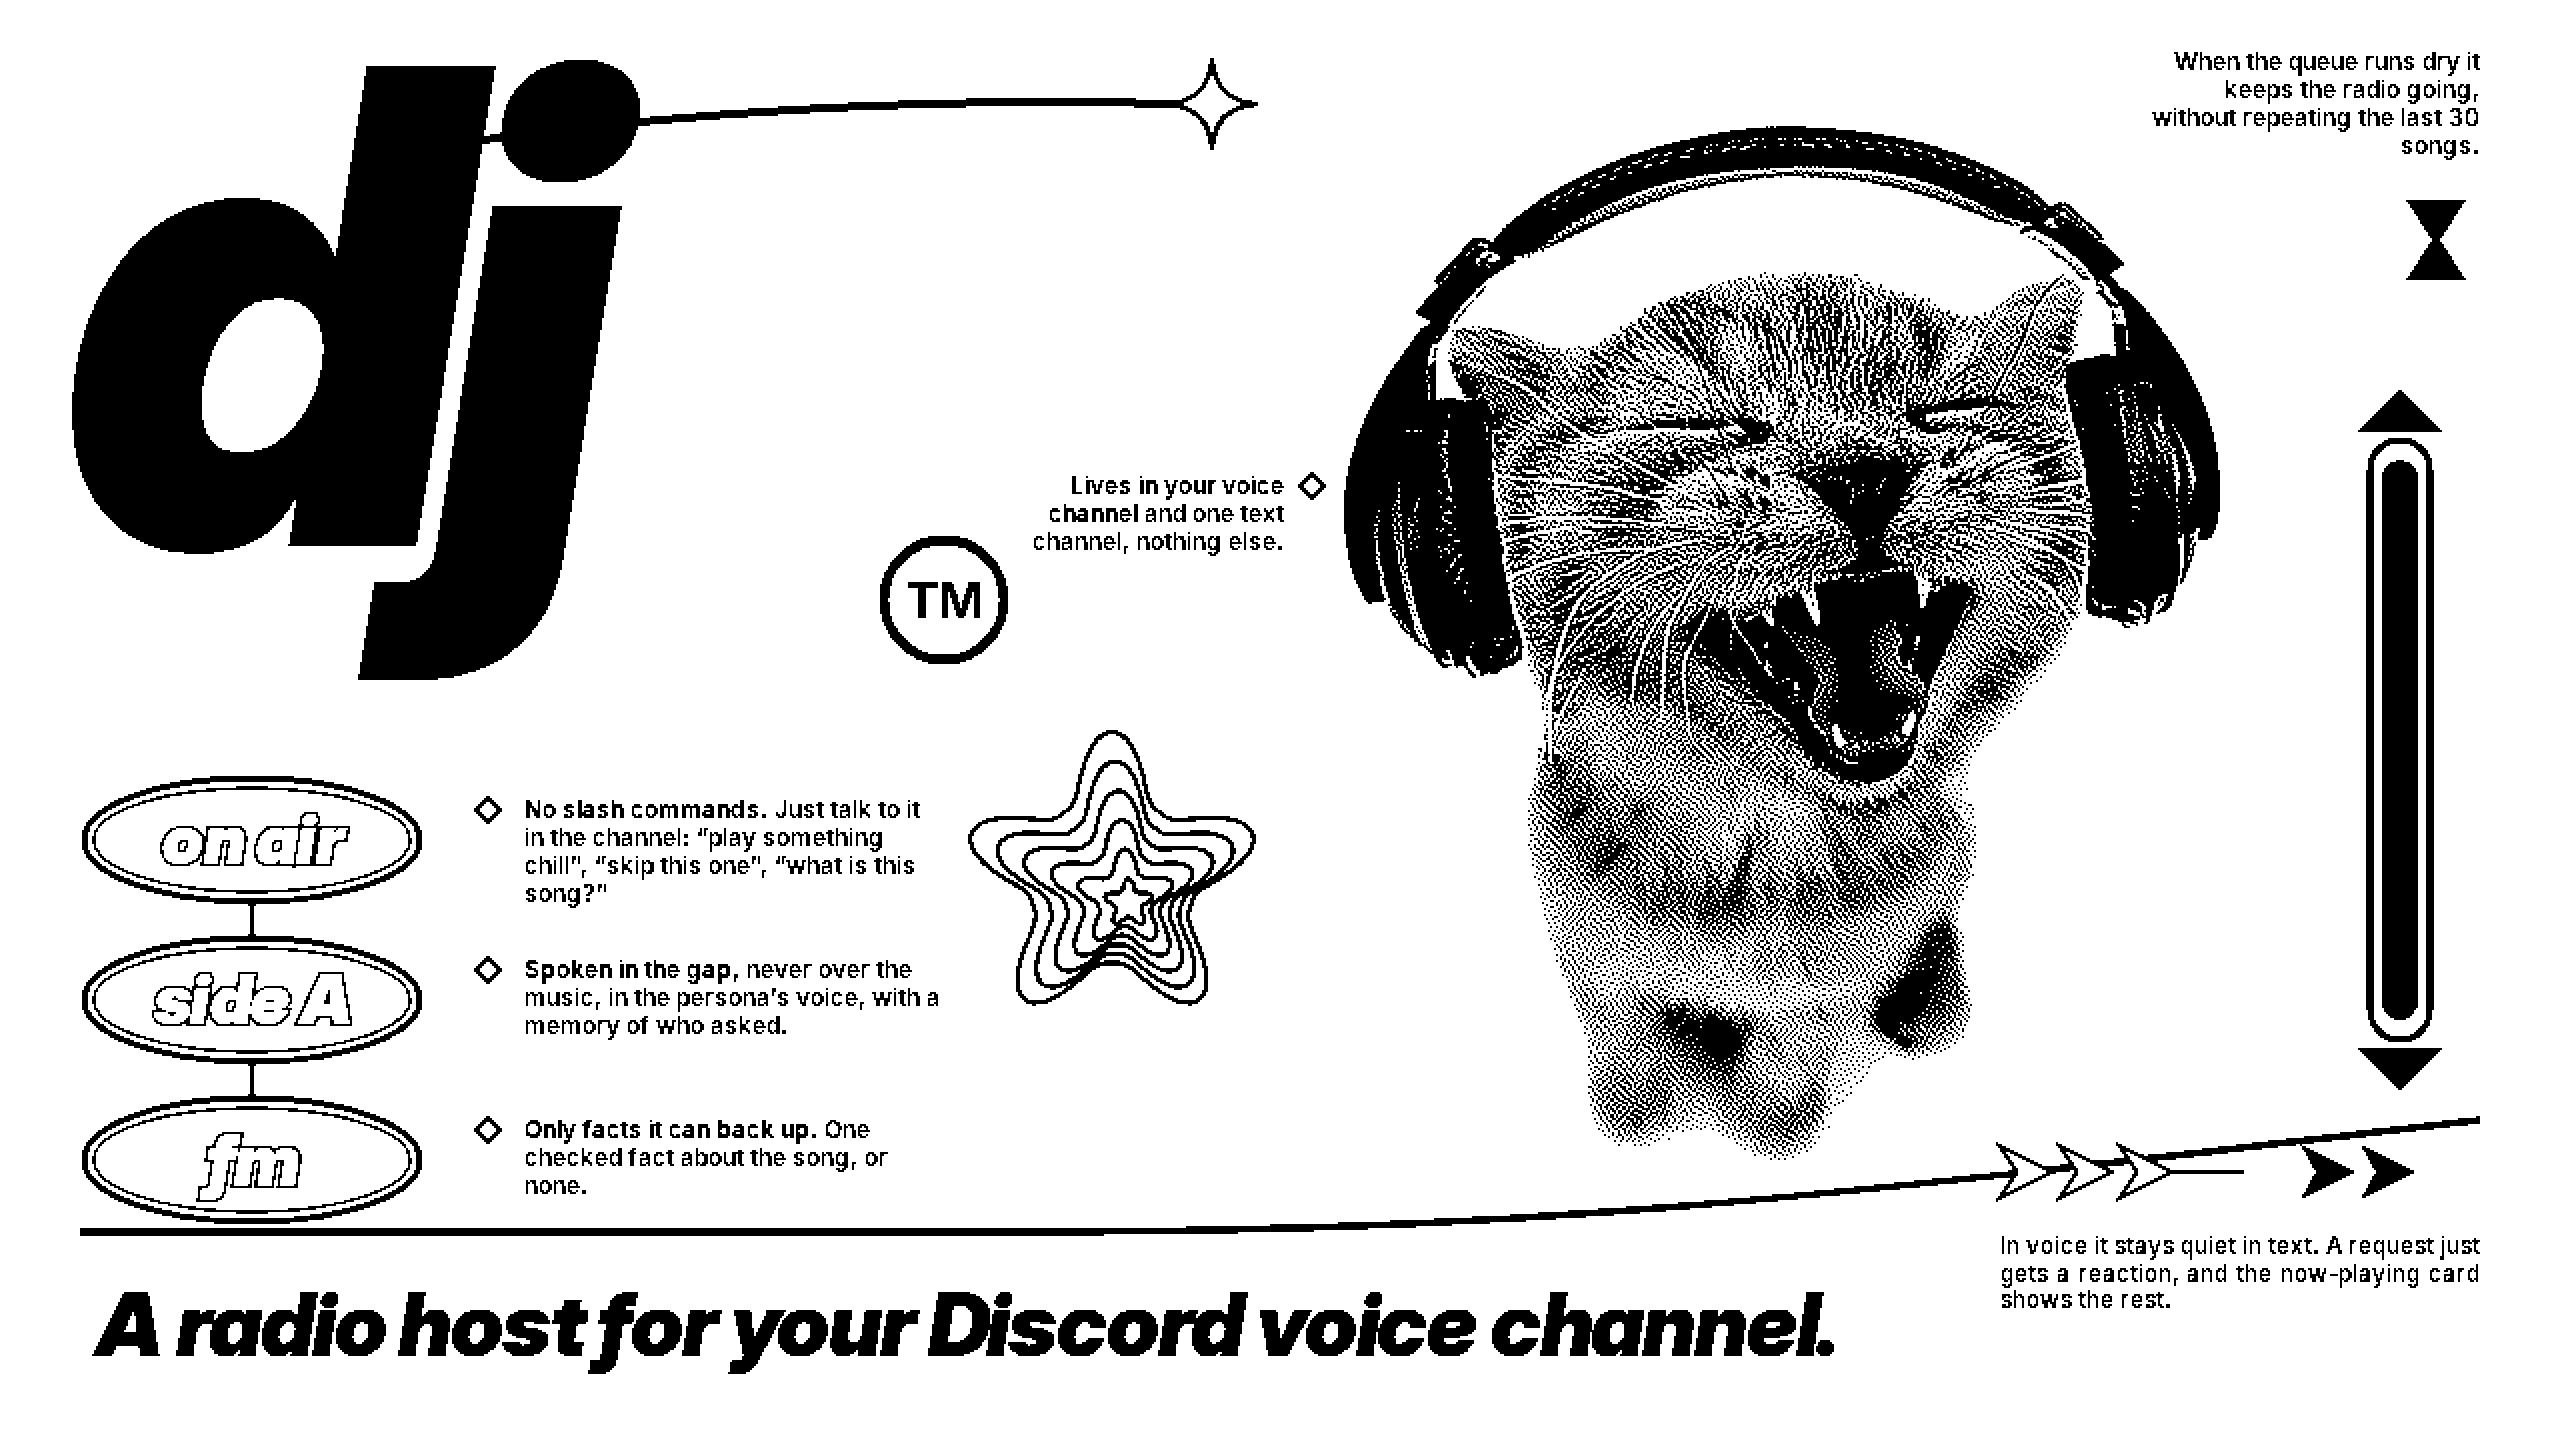
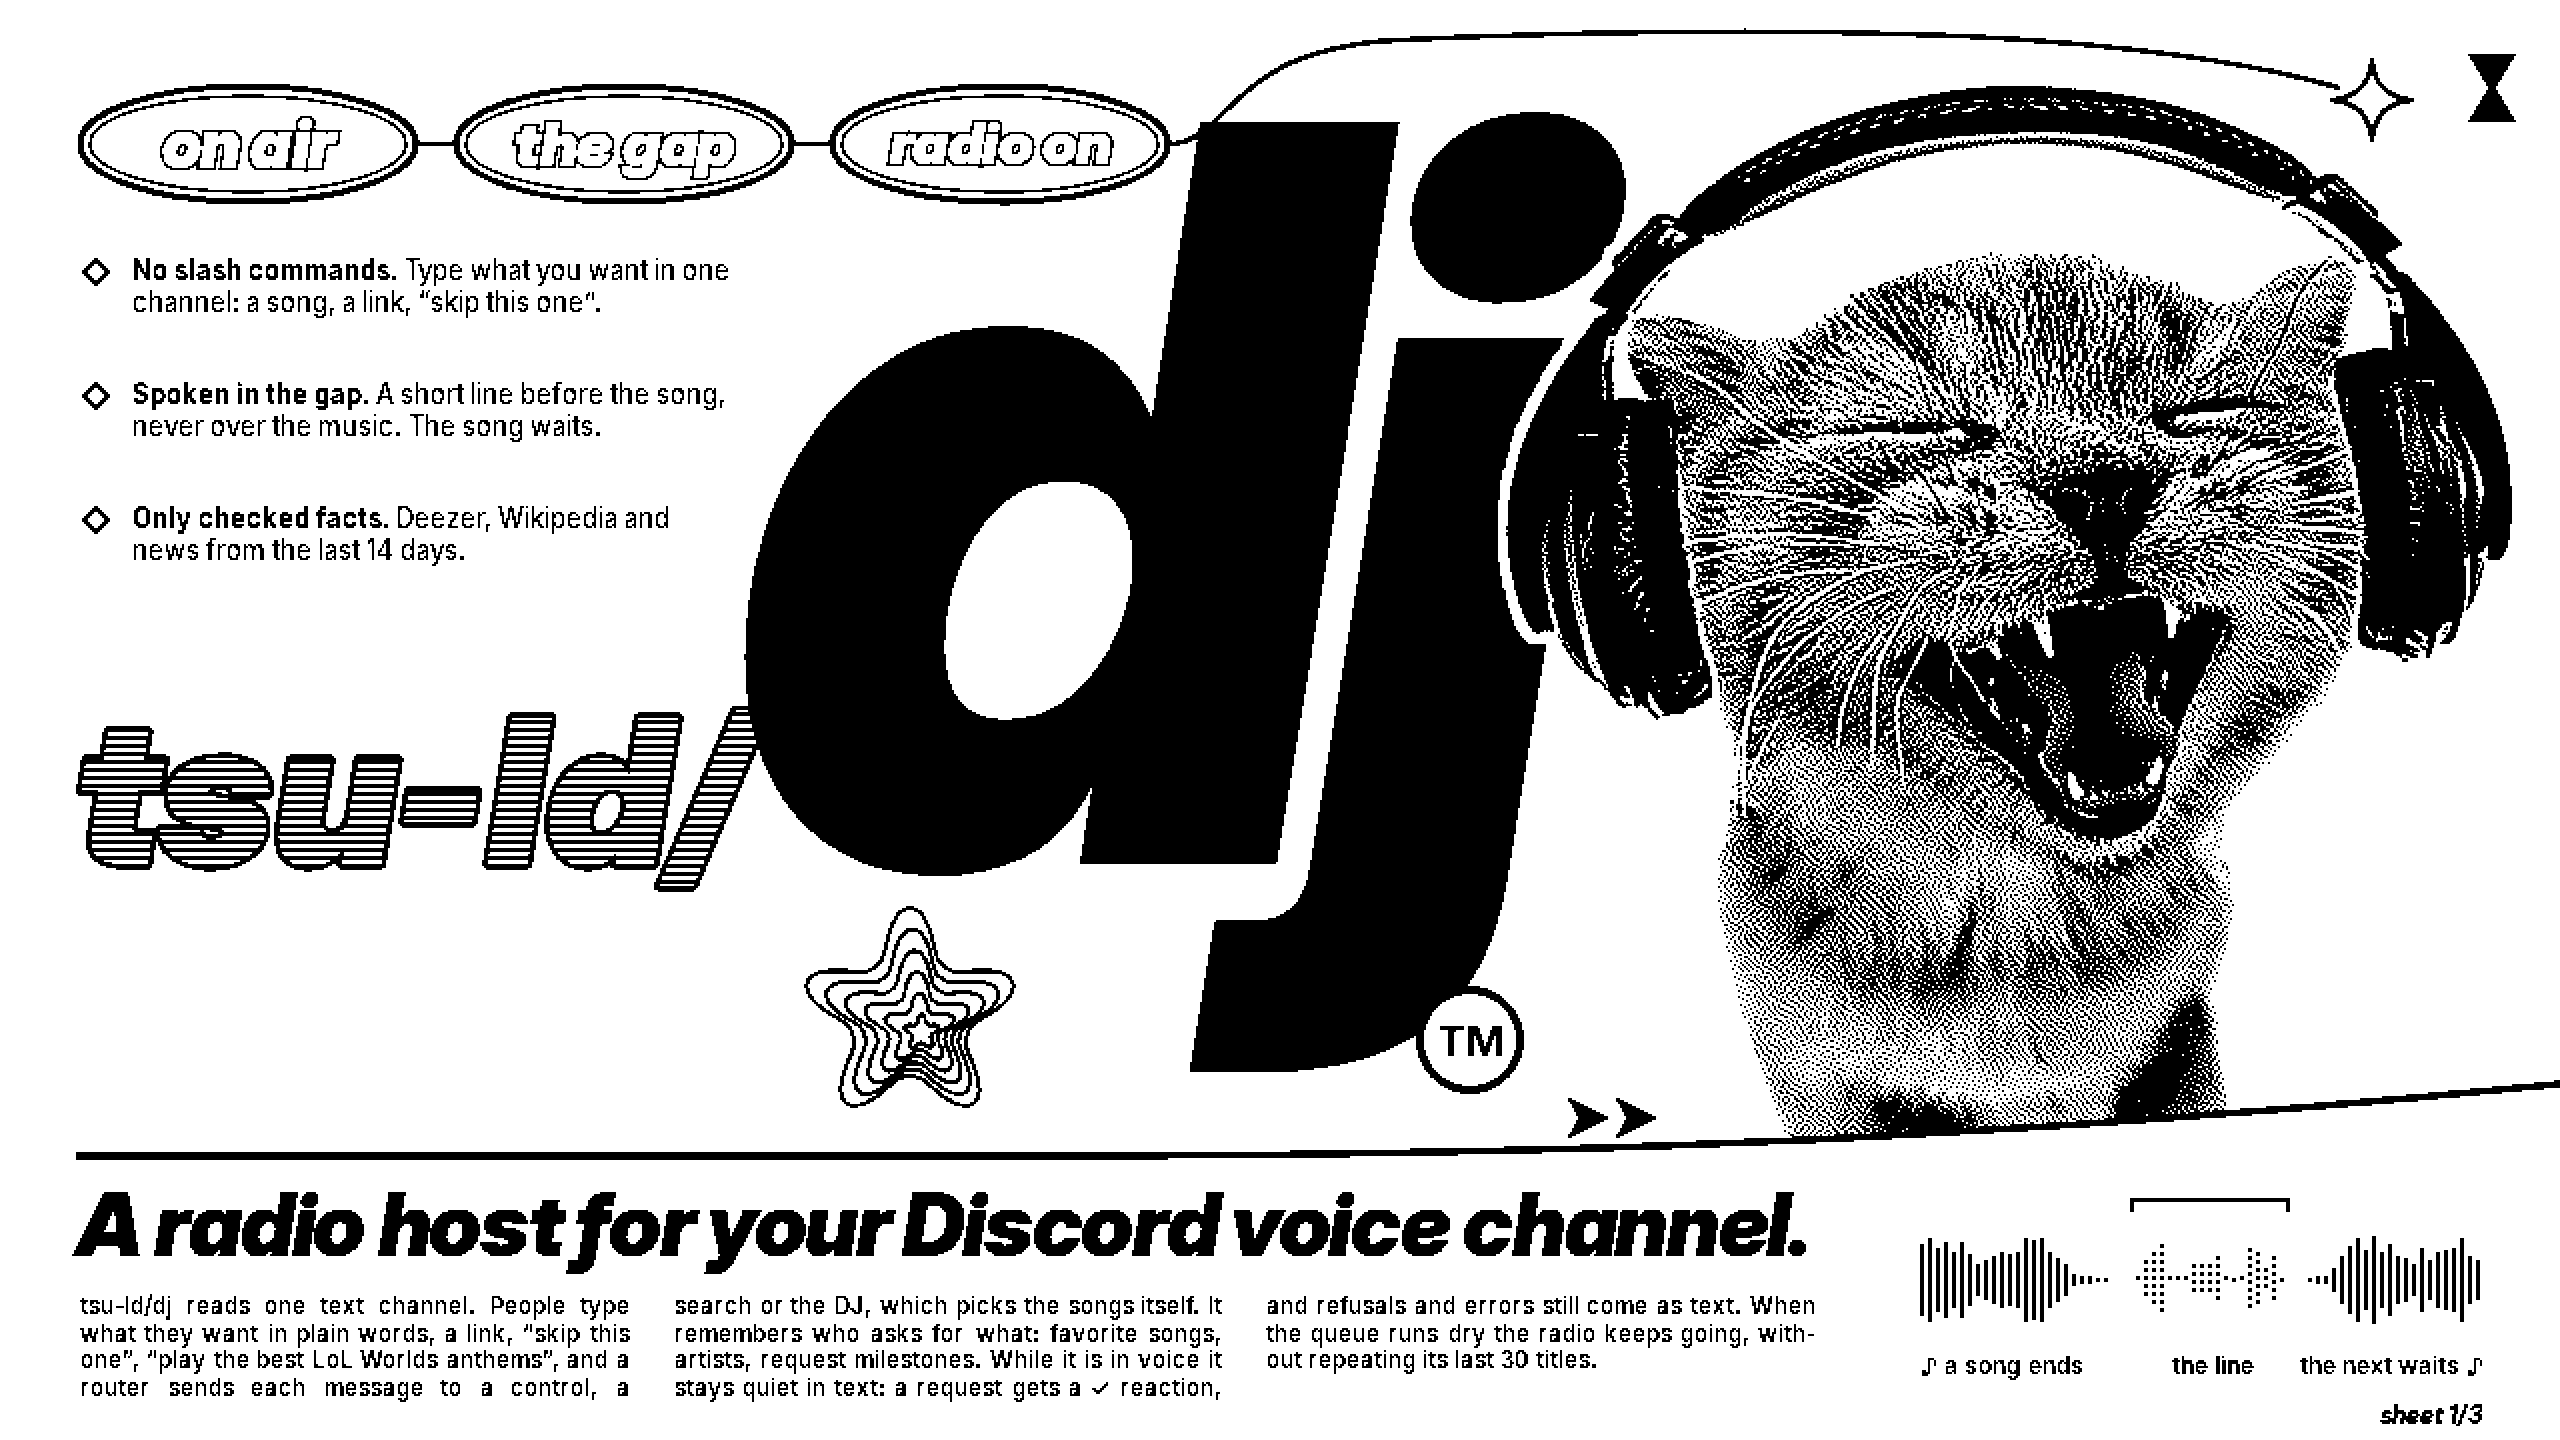
docs: redraw the readme posters as one series

diff --git a/README.md b/README.md
@@ -1,5 +1,5 @@
 <p align="center">
-  <img src="docs/assets/banner.png" alt="dj: a singing kitten in headphones and the words &quot;a radio host for your Discord voice channel&quot;" width="100%">
+  <img src="docs/assets/banner.png" alt="tsu-ld/dj: a singing kitten in headphones and the words &quot;a radio host for your Discord voice channel&quot;" width="100%">
 </p>
 
 <p align="center">
@@ -48,7 +48,7 @@ With a voice configured, the DJ speaks in the gap before a song starts. The song
 ### A card that keeps up
 
 <p align="center">
-  <img src="docs/assets/now-playing.png" alt="The now-playing card: song title, status, a live progress bar, the next three songs and buttons for pause, skip, shuffle, radio, queue and leave" width="760">
+  <img src="docs/assets/now-playing.png" alt="The now-playing card for Radiohead's Weird Fishes/Arpeggi: status, a progress bar, the next two songs and buttons for pause, skip, shuffle, radio, queue and leave, beside an original dithered spiral of fish" width="760">
 </p>
 
 One card per server shows:
